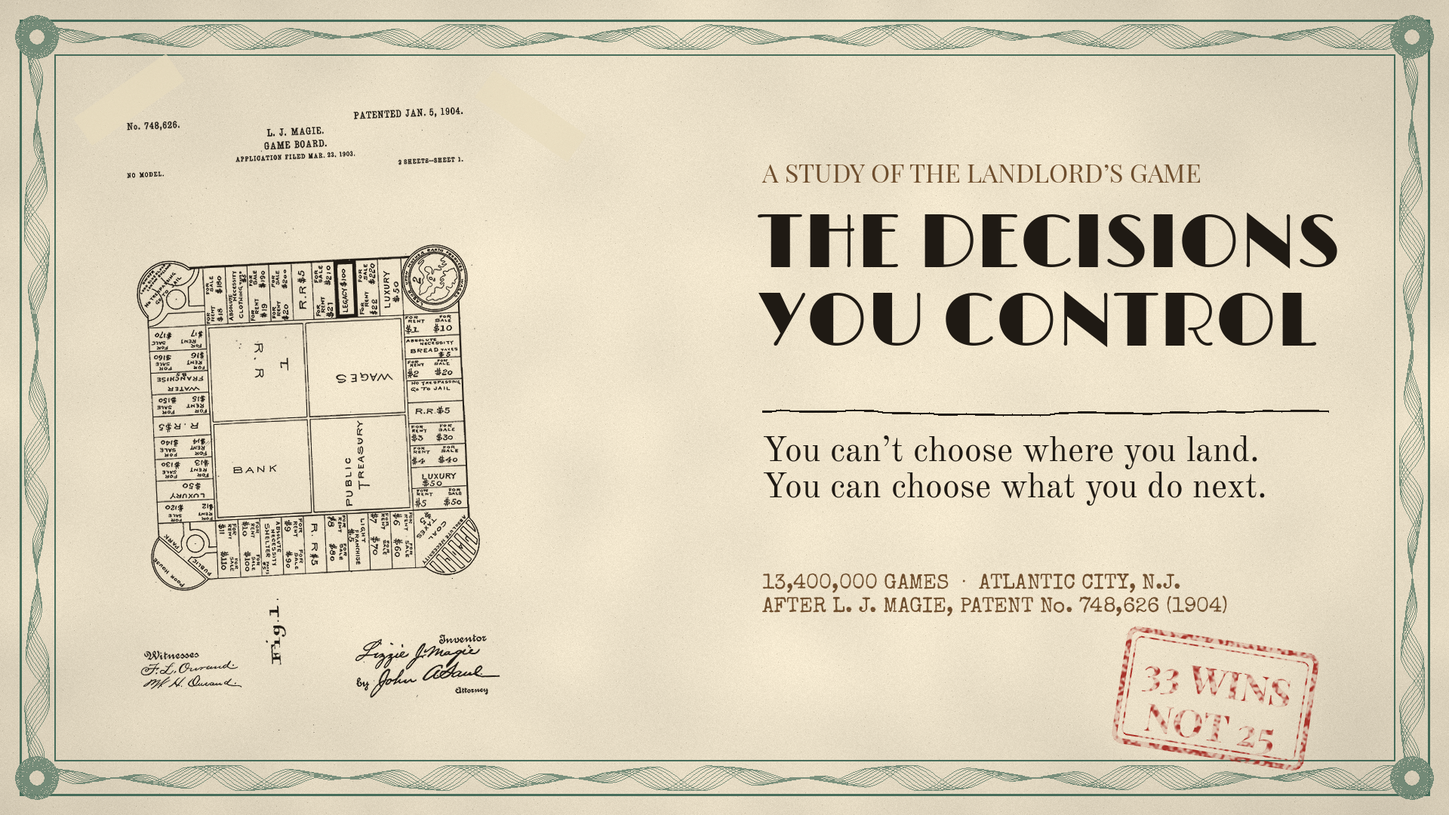
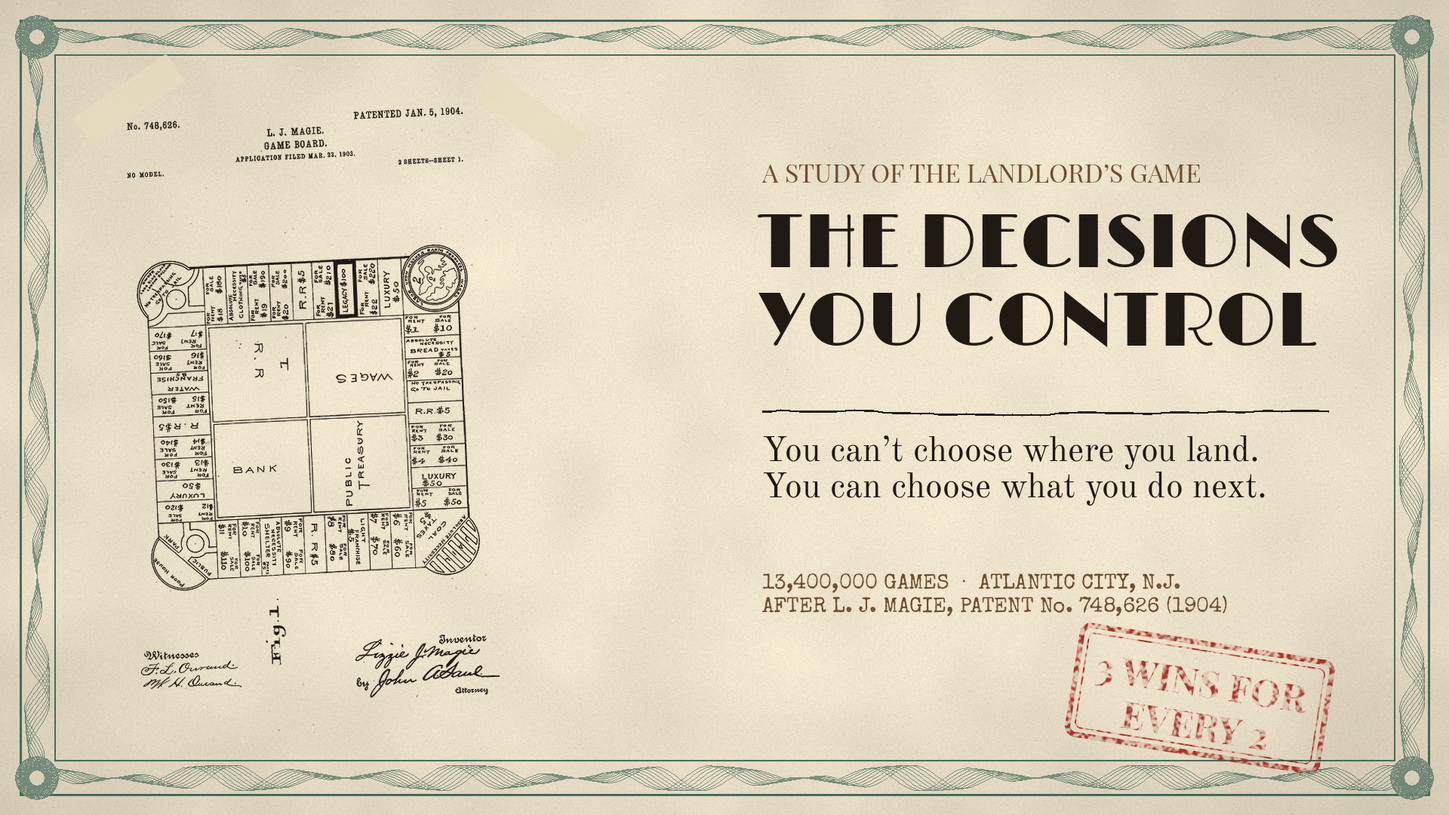
Monopoly video: frame the payoff as 3 wins for every 2, and family champion two years in three
"33 wins in 100 instead of 25" sounds small. The same per-game figures read better against the people
at the table: the playbook player wins 32.6 per 100 to each opponent's 22.4, about three for every
two. Over a run of game nights the edge compounds: champion (most wins outright) in 65% of
52-game years against about 9% for each opponent. analyze.py now computes these "season" odds and
the dollar equivalent (a typical player needs about $285 of extra starting cash to match the
playbook, which comes from a new per-player starting-cash option in the engine); charts.py draws
final_champion.png. The style frames switch the title stamp, end-card seal and thumbnail to the new
framing and add a game-night ledger of tally marks. The plan (revision 4) and the art direction
carry the new hook lines, visuals, titles and Short.

Claude-Session: https://claude.ai/code/session_01S7EUMzy4HsVkAEjXuDJdWg

Changed region(s): [[0.7188, 0.7639, 0.9375, 0.9472]]

diff --git a/monopoly/art/style_frames.py b/monopoly/art/style_frames.py
@@ -310,7 +310,7 @@ def frame_title():
     wobble_line(d, [(1010, 545), (1760, 545)], width=3, seed=9)
     text(img, (1010, 575), 'You can’t choose where you land.\nYou can choose what you do next.', font('serif', 46), fill=INK, spacing=12)
     text(img, (1010, 760), '13,400,000 GAMES  ·  ATLANTIC CITY, N.J.\nAFTER L. J. MAGIE, PATENT No. 748,626 (1904)', font('type', 28), fill=SEPIA, spacing=10)
-    stamp(img, (1610, 925), ['33 WINS', 'NOT 25'], angle=-9, size=52)
+    stamp(img, (1590, 925), ['3 WINS FOR', 'EVERY 2'], angle=-9, size=50)
     return img
 
 
@@ -446,10 +446,10 @@ def frame_endcard():
     d.ellipse([cx - R, cy - R, cx + R, cy + R], fill=STAMP + (230,))
     d.ellipse([cx - R + 14, cy - R + 14, cx + R - 14, cy + R - 14], outline=(240, 220, 200, 200), width=2)
     img.alpha_composite(roughen(layer, 0.04, 21))
-    text(img, (cx, cy - 14), '33', font('fat', 88), fill=(246, 234, 214), anchor='mm')
-    text(img, (cx, cy + 52), 'NOT 25', font('scb', 30), fill=(246, 234, 214), anchor='mm')
+    text(img, (cx, cy - 12), '3 : 2', font('fat', 72), fill=(246, 234, 214), anchor='mm')
+    text(img, (cx, cy + 50), 'WINS', font('scb', 30), fill=(246, 234, 214), anchor='mm')
     text(img, (300, 850), 'Same dice.', font('script', 64))
-    text(img, (300, 935), 'Wins in a hundred four-player games: 33 for the playbook, 25 for a typical player.', font('type', 24), fill=SEPIA)
+    text(img, (300, 935), 'Three wins for every two of theirs. A year of weekly game nights: champion two years in three.', font('type', 24), fill=SEPIA)
     return img
 
 
@@ -466,13 +466,54 @@ def thumbnail():
     d = ImageDraw.Draw(img)
     wobble_line(d, [(722, 150), (1195, 112)], fill=STAMP, width=12, amp=1.5, seed=3)
     stamp(img, (975, 390), ['SPEND IT'], angle=-8, size=108)
-    text(img, (742, 590), '33 wins, not 25', font('deco', 54))
+    text(img, (742, 585), '3 wins for every 2', font('deco', 54))
+    return img
+
+
+def tally(img, x, y, count, h=46, gap=13, group_gap=26, color=INK, seed=0):
+    """Hand-drawn tally marks: groups of four strokes crossed by a fifth."""
+    d = ImageDraw.Draw(img)
+    k = 0
+    for g in range(count // 5 + 1):
+        n = min(5, count - g * 5)
+        if n <= 0:
+            break
+        gx = x + g * (4 * gap + group_gap)
+        for j in range(min(n, 4)):
+            wobble_line(d, [(gx + j * gap, y), (gx + j * gap + 2, y + h)], fill=color, width=3, amp=0.6, seed=seed + k); k += 1
+        if n == 5:
+            wobble_line(d, [(gx - 6, y + h * 0.8), (gx + 3 * gap + 8, y + h * 0.2)], fill=color, width=3, amp=0.6, seed=seed + k); k += 1
+    return x + (count // 5) * (4 * gap + group_gap) + (count % 5) * gap
+
+
+def frame_game_nights():
+    img = paper(base=(240, 233, 212), seed=8)
+    layer = ink_layer(img.size); d = ImageDraw.Draw(layer)
+    for y in [300 + k * 120 for k in range(5)]:
+        d.line([(80, y), (1840, y)], fill=(120, 150, 170, 110), width=1)
+    d.line([(152, 170), (152, 1040)], fill=(170, 60, 50, 140), width=2)
+    img.alpha_composite(layer)
+    text(img, (170, 60), 'GAME NIGHT LEDGER', font('scb', 44), fill=NOTE_GREEN)
+    text(img, (170, 118), 'One hundred game nights, the same four players. You follow the playbook.', font('serif', 32))
+    rows = [('YOU', 33, STAMP), ('MOM', 22, INK), ('DAD', 22, INK), ('JORDAN', 23, INK)]
+    for k, (who, n, col) in enumerate(rows):
+        y = 200 + k * 120
+        text(img, (180, y + 22), who, font('type', 44), fill=col)
+        end = tally(img, 450, y + 18, n, color=col, seed=100 * k)
+        text(img, (end + 40, y + 22), str(n), font('type', 48), fill=col)
+    text(img, (180, 720), 'Three wins for every two of theirs.', font('serifb', 44))
+    text(img, (180, 800), 'Play every week for a year and you finish as family champion', font('serif', 36))
+    text(img, (180, 850), 'two years in three. Each of them: about one year in eleven.', font('serif', 36))
+    stamp(img, (1590, 900), ['FAMILY', 'CHAMPION'], angle=-8, size=64)
+    text(img, (180, 1000), 'Wins per 100 games: 32.6 vs 22.3, 22.5, 22.5. Champion = most wins outright over 52 weekly games (64.8% vs 8.5-8.9% each).',
+         font('type', 20), fill=SEPIA)
     return img
 
 
 if __name__ == '__main__':
     os.makedirs(OUT, exist_ok=True)
     for name, fn in (('01_title', frame_title), ('02_board', frame_board), ('03_ledger_spend_or_save', frame_ledger),
-                     ('04_railroads_telegram', frame_railroads), ('05_end_card', frame_endcard), ('06_thumbnail', thumbnail)):
+                     ('04_railroads_telegram', frame_railroads), ('05_end_card', frame_endcard), ('06_thumbnail', thumbnail),
+                     ('07_game_night_ledger', frame_game_nights)):
         fn().convert('RGB').save(os.path.join(OUT, name + '.png'))
         print('wrote', name)

diff --git a/monopoly/sim/analyze.py b/monopoly/sim/analyze.py
@@ -418,6 +418,35 @@ def main():
             md.append('| %s | %s | %s | %s | %s |' % (k.replace('_', ' '), '%.1f' % a_['win'] if a_ else '', '%.1f%%' % a_['first_out'] if a_ else '',
                                                       '%.1f' % b_['win'] if b_ else '', '%.1f%%' % b_['first_out'] if b_ else ''))
         md.append('')
+    # framing the payoff: per-opponent ratio, family "seasons", dollar equivalent
+    if eg and 'with_auctions__playbook' in eg and 'with_auctions__typical_n4' in eg:
+        import numpy as np
+        rng = np.random.default_rng(7)
+        def probs(d):
+            n = d['games']; w = [pl['wins'] / n for pl in d['players']]
+            return w + [max(0.0, 1 - sum(w))]
+        def champ(p, games, sims=400000):
+            c = rng.multinomial(games, np.array(p), size=sims)[:, :4]
+            return float((c[:, 0] > c[:, 1:].max(axis=1)).mean())
+        pb, ty = probs(eg['with_auctions__playbook']), probs(eg['with_auctions__typical_n4'])
+        curve = {g: (champ(pb, g), champ(ty, g)) for g in (5, 10, 15, 20, 26, 30, 40, 52)}
+        fr = load('framing')
+        bonus = {int(k.split('_')[1]): pct(d['players'][0]['wins'] / d['games']) for k, d in fr.items() if k.startswith('bonus_')} if fr else {}
+        summary['framing'] = {'playbook': pb[:4], 'typical': ty[:4], 'per_opponent_ratio': pb[0] / (sum(pb[1:4]) / 3),
+                              'season_champion': {g: v for g, v in curve.items()}, 'cash_bonus_wins': bonus}
+        md += ['## Framing the payoff (with auctions, endgame deals on)', '',
+               'Playbook player and its three typical opponents, wins per 100 games: %s. Each opponent averages %.1f, so the playbook '
+               'player wins %.2f times as often as each person it plays (about 3 games for every 2).' % (
+                   ', '.join('%.1f' % pct(x) for x in pb[:4]), pct(sum(pb[1:4]) / 3), pb[0] / (sum(pb[1:4]) / 3)), '',
+               '"Family champion": most wins outright over a run of game nights against the same three opponents '
+               '(ties are not a championship). Simulated from the per-game odds above, 400,000 seasons each.', '',
+               '| Game nights | Playbook player is champion | A typical player at an all-typical table |', '|---|---|---|']
+        for g_, (a_, b_) in curve.items():
+            md.append('| %d | %.1f%% | %.1f%% |' % (g_, pct(a_), pct(b_)))
+        if bonus:
+            md += ['', 'Dollar equivalent: a typical player given extra starting cash (vs three typical players) wins ' +
+                   ', '.join('+$%d: %.1f' % kv for kv in sorted(bonus.items())) + ' per 100 games.']
+        md.append('')
     egp = load('endgame_pairs')
     if egp:
         import itertools

diff --git a/monopoly/sim/charts.py b/monopoly/sim/charts.py
@@ -739,7 +739,31 @@ def chart_final():
         save(fig, 'final_max_vs_spread.png')
 
 
+def chart_champion():
+    F = S.get('framing')
+    if not F:
+        return
+    sc = {int(k): v for k, v in F['season_champion'].items()}
+    gs = sorted(sc)
+    fig, ax = plt.subplots(figsize=(9, 4.8))
+    ax.plot(gs, [100 * sc[g][0] for g in gs], color=BLUE, lw=2.4, marker='o', ms=5, label='Playbook player')
+    ax.plot(gs, [100 * sc[g][1] for g in gs], color=MUTED, lw=2.0, marker='o', ms=4, label='Typical player')
+    for g in (10, 52):
+        ax.text(g, 100 * sc[g][0] + 3, '%.0f%%' % (100 * sc[g][0]), ha='center', fontsize=10, color=INK)
+        ax.text(g, 100 * sc[g][1] - 6, '%.0f%%' % (100 * sc[g][1]), ha='center', fontsize=10, color=INK2)
+    ax.set_ylim(0, 80); ax.set_xlim(0, 55)
+    ax.set_xlabel('Game nights in the season (the same four players each time)')
+    ax.set_ylabel('Chance of finishing the season\nwith the most wins (%)')
+    ax.legend(frameon=False, loc='upper left')
+    ax.grid(axis='y', color=GRID, lw=0.8); ax.set_axisbelow(True)
+    ax.set_title('Small edges compound: who is the family champion?', loc='left', fontsize=13, weight='bold', color=INK)
+    fig.text(0.01, -0.03, 'Per game: playbook player 32.6 wins in 100, each opponent 22.4. Ties for the most wins are not counted as a championship.',
+             fontsize=8.5, color=INK2)
+    save(fig, 'final_champion.png')
+
+
 if __name__ == '__main__':
+    chart_champion()
     chart_final()
     chart_controls(); chart_decision_values(); chart_playbook()
     chart_building(); chart_pairs(1000); chart_pairs(500)

diff --git a/monopoly/sim/experiments.py b/monopoly/sim/experiments.py
@@ -461,7 +461,17 @@ def exp_endgame(n_games=100000, n_scen=20000):
                 n_scen, give=give, deal=1, cash=1000, tv=tv, **END_WORLDS['with_auctions'])
 
 
-EXPERIMENTS = {'endgame': exp_endgame, 'playbook': exp_playbook, 'controls': exp_controls, 'building': exp_building, 'real_race': exp_real_race, 'real_evolution': exp_real_evolution, 'realistic': exp_realistic, 'ecology': exp_ecology, 'ablation': exp_ablation, 'shark': exp_shark, 'length': exp_length, 'duel': exp_duel, 'table': exp_table, 'skip': exp_skip,
+def exp_framing(n_games=100000):
+    """Price the playbook's edge in dollars: extra starting cash a typical player needs to match it."""
+    import evolve_real as er
+    tv = ','.join('%s:%d' % kv for kv in er.TV.items())
+    typ = er.TYPICAL
+    for b_ in (250, 500, 750, 1000, 1250, 1500, 2000, 3000):
+        run('framing', 'bonus_%d' % b_, ['everything;name=bonus %d;bonus=%d' % (b_, b_)] + [typ] * 3, n_games, tv=tv, **END_WORLDS['with_auctions'])
+    run('framing', 'playbook_with_bonus_minus_1000', [PLAYBOOK + ';bonus=-1000'] + [typ] * 3, n_games, tv=tv, **END_WORLDS['with_auctions'])
+
+
+EXPERIMENTS = {'framing': exp_framing, 'endgame': exp_endgame, 'playbook': exp_playbook, 'controls': exp_controls, 'building': exp_building, 'real_race': exp_real_race, 'real_evolution': exp_real_evolution, 'realistic': exp_realistic, 'ecology': exp_ecology, 'ablation': exp_ablation, 'shark': exp_shark, 'length': exp_length, 'duel': exp_duel, 'table': exp_table, 'skip': exp_skip,
                'h2h': exp_h2h, 'players': exp_players}
 
 if __name__ == '__main__':

diff --git a/monopoly/sim/monopoly.cpp b/monopoly/sim/monopoly.cpp
@@ -140,6 +140,7 @@ struct Strat {
     int tradeCash = 0;        // only make a swap when holding at least this much cash (to build straight away)
     bool rrTrade = false;     // also swap set-for-set to collect all four railroads
     int raiseOrder = 0;       // short of cash: 0 mortgage loose property before selling houses, 1 sell houses first
+    int bonus = 0;            // extra starting cash for this player only (to price an edge in dollars)
 };
 
 static uint64_t maskFromName(const std::string& w) {
@@ -234,6 +235,7 @@ static Strat parseStrat(const std::string& spec) {
         else if (k == "tcash") s.tradeCash = atoi(v.c_str());
         else if (k == "rrtrade") s.rrTrade = atoi(v.c_str()) != 0;
         else if (k == "raise") s.raiseOrder = (v == "mortgage" ? 0 : v == "sell" ? 1 : atoi(v.c_str()));
+        else if (k == "bonus") s.bonus = atoi(v.c_str());
         else { fprintf(stderr, "unknown key '%s'\n", k.c_str()); exit(1); }
     }
     return s;
@@ -849,7 +851,7 @@ struct Game {
     // returns the winning player index, or -1 on timeout
     int play() {
         for (int s = 0; s < 40; s++) { owner[s] = -1; houses[s] = 0; mort[s] = false; }
-        for (int p = 0; p < n; p++) { P[p] = Player(); P[p].cash = cfg.startCash; P[p].slot = p; }
+        for (int p = 0; p < n; p++) { P[p] = Player(); P[p].cash = cfg.startCash + S[p]->bonus; P[p].slot = p; }
         aliveCount = n;
         chance.shuffle(rng); chest.shuffle(rng);
         for (auto& gv : cfg.give) for (int i = 0; i < GSZ[gv.second]; i++) owner[GSQ[gv.second][i]] = gv.first;

diff --git a/monopoly/reports/Video plan - decisions you control.md b/monopoly/reports/Video plan - decisions you control.md
@@ -1,8 +1,10 @@
-# Video plan for review (revision 3): the Monopoly decisions you actually control
+# Video plan for review (revision 4): the Monopoly decisions you actually control
 
 Status: draft for review, nothing filmed or rendered. Revision 3 adds the look (`Art direction.md`, style frames
 in `art/frames/`), a 20-second lore cold open, and closes the open questions: endgame prices stay at 2.5-3x,
-and the headline number is "33 vs 25" (with auctions).
+and the headline number is "33 vs 25" (with auctions). Revision 4 reframes that payoff so it lands: "three wins
+for every two of theirs" per game, and "family champion two years in three" over a year of game nights (see
+"Framing the payoff").
 
 Changes since revision 1, following your review:
 - **Endless games**: stalled games now go into an endgame where players start making deals that hand someone a
@@ -197,7 +199,9 @@ This player makes every best choice above and never picks a favourite colour:
 | 5 players | 20.1 | 25.8 | 23.8 |
 | 6 players | 16.8 | 20.5 | 19.3 |
 
-- Same dice, about **30% more wins** at a four-player table (20% more without auctions).
+- Same dice: at the four-player table the playbook player wins 32.6 games in 100 and each of its three
+  opponents about 22.4. That's **about three wins for every two of theirs** (1.45 times as many). Without
+  auctions: 30.2 against 23.3 each (1.3 times).
 - Seat a typical player with three playbook players and it wins 20.7 instead of 25: the playbook isn't a trick
   that only works against weak players.
 - Without auctions the playbook's edge shrinks, most of all heads-up (52.6 vs 50.5), because the auction
@@ -223,12 +227,51 @@ alternative):
 When you hold two sets, which one you build first is worth up to 21 games in 100, and building one up instead
 of spreading is worth about 10.
 
+## Framing the payoff
+
+"33 wins in 100 instead of 25" is accurate, but it sounds small, because both numbers lose most games. What
+people care about at game night is beating the people across the table, and bragging rights over a season.
+Both framings below use the same 32.6 vs 22.4 per-game figures and are exact.
+
+**1. Per game, against the people you're playing (the headline):**
+> "Same dice. Same board. Make seven different decisions and you'll win **three games for every two** anyone
+> else at the table wins."
+
+(32.6 vs 22.3 / 22.5 / 22.5 wins per 100: 1.45 to 1.)
+
+**2. Over a season of game nights (the emotional payoff; small edges compound):**
+> "Play every week for a year, and you finish as the family champion **two years out of three**. Each of the
+> people you're playing? About **one year in eleven**."
+
+(Most wins outright over 52 games: 64.8% for the playbook player, 8.5-8.9% for each opponent, 8.8% a shared top
+spot. Over 10 game nights: 35% vs about 13% each. A typical player at an all-typical table: 18% over 10 nights,
+23% over a year. Chart: `final_champion.png`.)
+
+**3. Plain-language backups, used once each:**
+- "One game in three instead of one in four."
+- "The playbook is worth more than twice the edge of rolling first." (Going first: +3.3 wins per 100;
+  playbook: +7.6.)
+- Optional: "It's worth about $300 of extra cash before the first roll." (A typical player handed $250 extra
+  wins 31.8 in 100, $500 extra 37.7. The playbook's 32.6 sits at about $285. True, but it undersells it, so
+  keep it out of the hook.)
+
+**How to show it:**
+- **The game-night ledger** (style frame 07): tally marks after 100 game nights. YOU 33 in red; MOM 22, DAD 22,
+  JORDAN 23 in ink. Stamp: FAMILY CHAMPION.
+- **The trophy shelf:** run 100 simulated "years of Sundays" and put a small trophy on the shelf of whoever
+  finished each year on top. About 65 trophies line up under YOU, about 9 under each of the others, and a few
+  years are shared. One image that makes "two years in three" physical.
+- **The race:** for one year, the four tally rows fill week by week. The rows run neck and neck for the first
+  month, then YOU pulls away, which is exactly what "small edges compound" looks like.
+
+Keep "32.6 vs 22.4 per 100 games" on screen as the footnote, so the claim can be checked.
+
 ## Running order (about 13 minutes)
 
 | Time | Section | What's said and shown |
 |---|---|---|
 | 0:00-0:20 | Lore cold open | The 1904 patent drawing on a desk. "In 1904 a woman named Lizzie Magie patented a board game to show how landlords get rich. You know it as Monopoly." Push in on her corner, "NO TRESPASSING - GO TO JAIL" |
-| 0:20-0:45 | The promise | Title card (frame 01). "Every Monopoly video tells you which colour is best. You don't get to choose where you land. Here's what you do get to choose, and what each choice is worth." Stamp: 33 wins in 100, not 25 |
+| 0:20-0:45 | The promise | Title card (frame 01). "Every Monopoly video tells you which colour is best. You don't get to choose where you land. But make seven different decisions, with the same dice, and you'll win three games for every two anyone else at the table wins. Play every week for a year, and you'll be the family champion two years out of three." Stamp: 3 WINS FOR EVERY 2 |
 | 0:45-1:20 | How we tested it | The rules slide. Typical player wins 25 in 100. The endgame beat: "when the board locks up, people start dealing", 2-3 deals a game, and every game finishes |
 | 1:20-2:50 | 1. Buy or pass | Buy-or-pass ladder: a small cushion is fine, passing to keep $500 costs 2.4. Never pass on a set card. Auction beat: bid to 1.5 times. Without auctions: passing is cheaper |
 | 2:50-4:40 | 2. Trading | Swap animation. Never trade: 4.9. Haggling costs about 4. Waiting or being picky barely matters. Endgame: take the deal, because refusing makes you likelier to go broke first |
@@ -236,7 +279,7 @@ of spreading is worth about 10.
 | 6:00-10:00 | 4. Building (longest) | Spend vs save (both panels: wins fall, risk rises). Mortgage to build. How far to build. Two sets: which first (the matrix; orange + green 84 vs 63). Max one set vs one house everywhere (0 of 28). Owe money: mortgage first, sell houses last |
 | 10:00-11:10 | 5. Jail | Out early, in once anyone has houses; less likely to go broke first |
 | 11:10-11:30 | Aside | The computer-designed player, in plain English (above) |
-| 11:30-12:30 | The playbook player | Same dice, about 30% more wins; table sizes; the "what each decision is worth" ranking; one line on how it changes without auctions |
+| 11:30-12:30 | The playbook player | The game-night ledger (frame 07): 33 tallies vs 22, 22, 23, "three for every two". The year-long race, then the trophy shelf: two years in three vs one in eleven. The "what each decision is worth" ranking. One line on how it changes without auctions |
 | 12:30-13:00 | End card | The seven-line playbook (below) |
 
 ## End card: the playbook
@@ -255,13 +298,17 @@ of spreading is worth about 10.
 | | Thumbnail | Title |
 |---|---|---|
 | A | Magie's 1904 patent drawing with a red stamp across it: "WHAT YOU CONTROL" | You Can't Control the Dice in Monopoly. Here's What You Can (Simulated) |
-| B | Frame 06: our board's corner with the brass pawn, "SAVE IT" crossed out, "SPEND IT" stamped, "33 wins, not 25" | Save Cash or Build Hotels? Every Monopoly Decision, Tested |
+| B | Frame 06: our board's corner with the brass pawn, "SAVE IT" crossed out, "SPEND IT" stamped, "3 wins for every 2" | Save Cash or Build Hotels? Every Monopoly Decision, Tested |
+| D | Frame 07 cropped: tally marks YOU vs MOM, stamped FAMILY CHAMPION | How to Be Your Family's Monopoly Champion (Same Dice, Better Decisions) |
+| E | Same as D | Win 3 Monopoly Games for Every 2 Your Family Wins |
 | C | The four railway tickets fanned out, stamped "ONLY IF YOU TRADE" | Should You Go for All Four Railroads? Monopoly Decisions, Settled |
 
 All three use the art direction (no Hasbro artwork); the description and end card carry "Not affiliated with or
 endorsed by Hasbro".
 
 ## Shorts (one decision each)
+
+- "How to be the family Monopoly champion." Same dice; seven decisions; champion two years in three.
 
 - "Keep cash for emergencies?" Keeping $300 back when building: 16.3 wins in 100 instead of 25.1, and you're
   *more* likely to go broke first.
@@ -302,7 +349,8 @@ set if they help you finish yours, and when the board locks up, people start dea
 🏠 Two monopolies? Cheaper houses first. Orange + green: 84 vs 63.
 🚂 Railroads: only worth it if you trade for the last one.
 🔒 Jail: get out early; stay in once anyone has houses.
-📋 Do all of it: about 33 wins in 100 instead of 25. Same dice.
+📋 Do all of it and you win about 3 games for every 2 that anyone else at the table wins. Play weekly for a year and
+   you finish as family champion two years in three. Same dice.
 
 How it's made: a simulator of the standard US board and current cards under the official rules (auctions,
 even building, 32 houses and 12 hotels, mortgages); its board probabilities match Truman Collins' published
@@ -325,8 +373,9 @@ realistic-play testing behind the project, including the evolution runs, totals 
 ## Decided
 
 - Endgame prices: 2.5x asking, up to 3x paid (as modelled).
-- Headline: 33 wins in 100 vs 25 (with auctions); the no-auction figure (30) is mentioned once in the playbook
-  section.
+- Headline: "three wins for every two of theirs" per game, and "family champion two years in three" over a
+  year of weekly game nights (both with auctions). "33 vs 25" stays as the on-screen footnote. The no-auction
+  figure (30.2, or 1.3 to 1) is mentioned once in the playbook section.
 
 Data: `sim/results/summary.md` ("Final numbers for the video" and "Final: two complete sets"). Charts:
 `sim/results/charts/final_*.png`.

diff --git a/monopoly/reports/Art direction.md b/monopoly/reports/Art direction.md
@@ -1,7 +1,7 @@
 # Art direction: "the patent drawing comes to life"
 
 Companion to `Video plan - decisions you control.md`. Style frames (rendered from code, so every element can
-be animated the same way): `art/frames/01_title.png` to `06_thumbnail.png`, made by `art/style_frames.py`.
+be animated the same way): `art/frames/01_title.png` to `07_game_night_ledger.png`, made by `art/style_frames.py`.
 
 ## The idea
 
@@ -109,12 +109,13 @@ All free to use (SIL Open Font License, or Apache for Special Elite), from Googl
 | 4. Building | The ledger (frame 03) for spend vs save. For houses and hotels, use architect's elevation drawings (a small house, a grand 1930s Boardwalk hotel facade) in the same ink style instead of plastic pieces. For the two-set question, the Sanborn map of the real blocks with the two sets washed in colour, then the which-first matrix as a ledger grid |
 | 5. Jail | Magie's own jail corner from the patent, then prison bars drawn in ink. The stamps read LEAVE, then STAY once houses appear on the board |
 | Aside: the computer's player | A family tree drawn like a patent figure: 24 boxes, the winners circled, 25 generations, ending on two favourite colour washes (light blue, orange) |
-| The playbook | The certificate (frame 05) with its wax seal "33 NOT 25", rules appearing one by one. Hold for the end card |
+| The playbook | The game-night ledger (frame 07): tally marks for 100 game nights, YOU 33 vs 22, 22, 23, stamped FAMILY CHAMPION. Then a trophy shelf for 100 simulated years of weekly games: about 65 trophies under YOU, about 9 under each of the others. Then the certificate (frame 05) with its wax seal "3 : 2 WINS", rules appearing one by one. Hold for the end card |
 
 ## Thumbnail
 
 Frame 06: a close crop of our board's corner (Boardwalk, Park Place, the "WAGES" corner) with the brass pawn;
-"SAVE IT" crossed out in red; a big "SPEND IT" stamp; "33 wins, not 25". Alternatives using the same parts:
+"SAVE IT" crossed out in red; a big "SPEND IT" stamp; "3 wins for every 2". Alternatives using the same parts:
+- the game-night ledger (frame 07) cropped to YOU vs MOM tally marks with the FAMILY CHAMPION stamp;
 - the patent drawing with a red stamp across it reading "WHAT YOU CONTROL";
 - the four railway tickets with "ONLY IF YOU TRADE".
 

diff --git a/monopoly/sim/results/summary.md b/monopoly/sim/results/summary.md
@@ -746,6 +746,25 @@ Everyone buys what they land on and makes fair set-for-set swaps. When nearly ev
 | typical n6 | 16.8 | 16.6% | 16.8 | 16.5% |
 | typical vs 3 playbook | 20.7 | 25.5% | 20.9 | 26.7% |
 
+## Framing the payoff (with auctions, endgame deals on)
+
+Playbook player and its three typical opponents, wins per 100 games: 32.6, 22.3, 22.5, 22.5. Each opponent averages 22.4, so the playbook player wins 1.45 times as often as each person it plays (about 3 games for every 2).
+
+"Family champion": most wins outright over a run of game nights against the same three opponents (ties are not a championship). Simulated from the per-game odds above, 400,000 seasons each.
+
+| Game nights | Playbook player is champion | A typical player at an all-typical table |
+|---|---|---|
+| 5 | 27.2% | 16.4% |
+| 10 | 35.5% | 18.4% |
+| 15 | 41.8% | 20.3% |
+| 20 | 45.9% | 20.7% |
+| 26 | 50.3% | 21.1% |
+| 30 | 53.0% | 21.5% |
+| 40 | 58.9% | 22.3% |
+| 52 | 64.6% | 22.7% |
+
+Dollar equivalent: a typical player given extra starting cash (vs three typical players) wins +$250: 31.8, +$500: 37.7, +$750: 42.4, +$1000: 46.5, +$1250: 50.0, +$1500: 53.0, +$2000: 58.5, +$3000: 66.6 per 100 games.
+
 ## Final: two complete sets, which first and max or spread (endgame deals on, $1,000 each, 20,000 games per cell)
 
 | Your two sets | A first | B first | A to 3 then B | B to 3 then A | Spread | Best |
